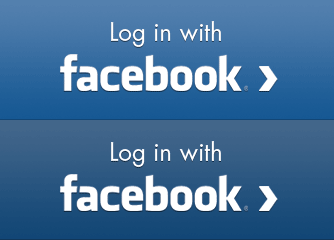
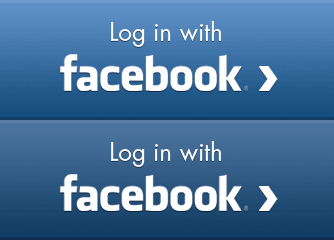
'batch' home css improvements

Changed region(s): [[0.0, 0.9625, 1.0, 1.0], [0.0, 0.4667, 1.0, 0.525], [0.0, 0.0, 1.0, 0.0292]]

diff --git a/public/stylesheets/home.css b/public/stylesheets/home.css
@@ -449,7 +449,7 @@ body.home7 {
 #container.home7 .login_button {
 	width: 334px;
 	height: 120px;
-	margin: 32px auto 0;
+	margin: 26px auto 0;
 	background: url('/images/home_batch_login.png');
 	display: block;
 }
@@ -470,7 +470,7 @@ body.home7 {
 }
 
 #footer.home7 {
-	font-size: 14px;
+	font-size: 12px;
 	color: #666666;
 	text-align: center;
 	position: absolute;
